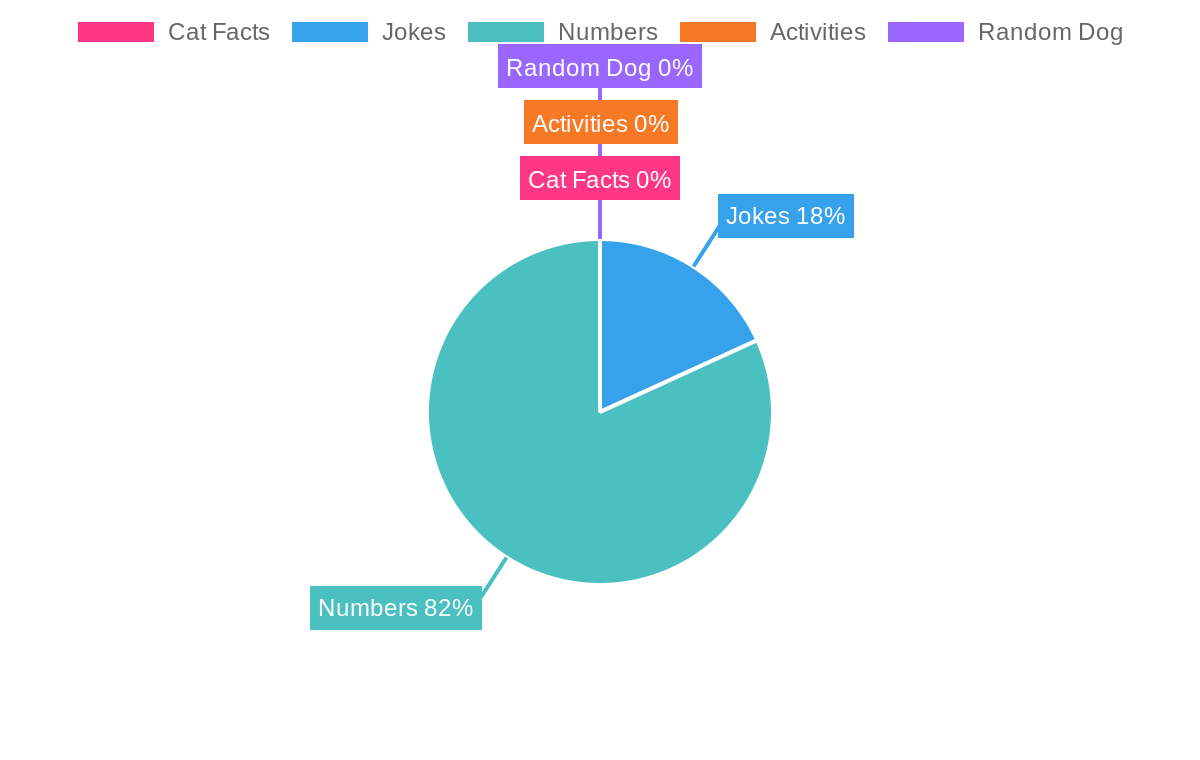
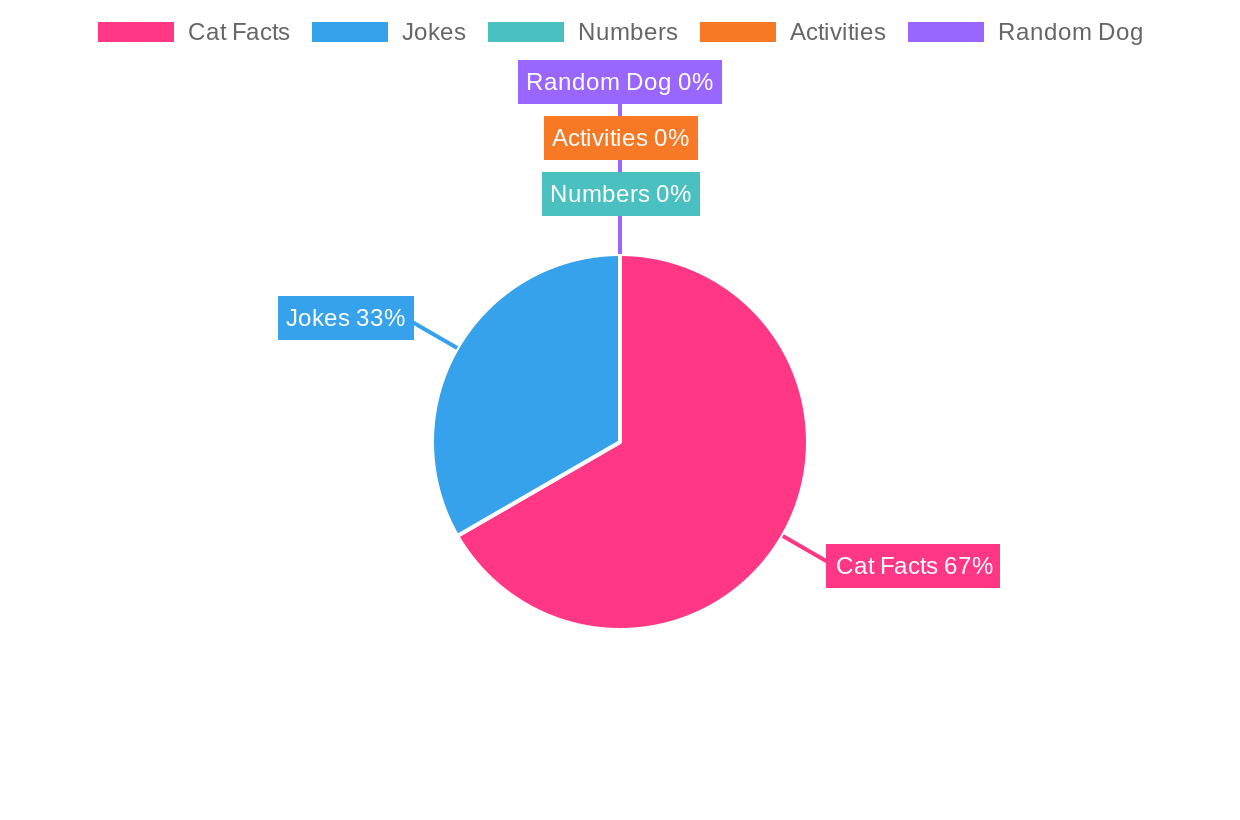
fix

Changed region(s): [[0.2158, 0.3026, 0.6475, 0.8474], [0.0617, 0.0303, 0.9558, 0.3329], [0.6475, 0.6658, 0.8325, 0.7263]]

diff --git a/src/main/java/org/example/InteractionChart.java b/src/main/java/org/example/InteractionChart.java
@@ -26,7 +26,7 @@ public class InteractionChart implements  Runnable{
     }
 
     public void run(){
-        while(true){
+        while(true) {
             try {
                 Thread.sleep(2000);
             } catch (InterruptedException e) {
@@ -34,44 +34,48 @@ public class InteractionChart implements  Runnable{
             }
             //System.out.println(this.chart.getConfig());
             try {
-                this.chart.setConfig(
-                        """
-                        {
-                        "type": "outlabeledPie",
-                        "data": {
-                    "labels": ["Cat Facts", "Jokes", "Numbers", "Activities", "Random Dog"],
-                    "datasets": [{
-                    "backgroundColor": ["#FF3784", "#36A2EB", "#4BC0C0", "#F77825", "#9966FF"],
-                    """
-                                +
-                                """
-                                "data": [
-                                """
-                                + this.interactionMap.get(Constants.API_CAT_FACT)+", "+this.interactionMap.get(Constants.API_JOKES)+", "+ this.interactionMap.get(Constants.API_NUMBERS)+", "+ this.interactionMap.get(Constants.API_ACTIVITIES)+", "+ this.interactionMap.get(Constants.API_RANDOM_DOG)+ "]" +
-                                """
-                                
-                                }]
-                            },
-                            "options": {
-                                "plugins": {
-                                    "legend": true,
-                                            "outlabels": {
-                                        "text": "%l %p",
-                                                "color": "white",
-                                                "stretch": 30,
-                                                "font": {
-                                            "resizable": true,
-                                                    "minSize": 12,
-                                                    "maxSize": 18
-                                        }
-                                    }
-                                }
-                            }
-                }""");
-                this.chart.toFile("res/chart.png");
+                if (this.interactionMap.get(Constants.API_CAT_FACT) > 0 || this.interactionMap.get(Constants.API_JOKES) > 0 || this.interactionMap.get(Constants.API_NUMBERS) > 0 || this.interactionMap.get(Constants.API_ACTIVITIES) > 0 || this.interactionMap.get(Constants.API_RANDOM_DOG) > 0) {
+                    this.chart.setConfig(
+                            """
+                                        {
+                                        "type": "outlabeledPie",
+                                        "data": {
+                                    "labels": ["Cat Facts", "Jokes", "Numbers", "Activities", "Random Dog"],
+                                    "datasets": [{
+                                    "backgroundColor": ["#FF3784", "#36A2EB", "#4BC0C0", "#F77825", "#9966FF"],
+                                    """
+                                    +
+                                    """
+                                            "data": [
+                                            """
+                                    + this.interactionMap.get(Constants.API_CAT_FACT) + ", " + this.interactionMap.get(Constants.API_JOKES) + ", " + this.interactionMap.get(Constants.API_NUMBERS) + ", " + this.interactionMap.get(Constants.API_ACTIVITIES) + ", " + this.interactionMap.get(Constants.API_RANDOM_DOG) + "]" +
+                                    """
+                                                            
+                                                            }]
+                                                        },
+                                                        "options": {
+                                                            "plugins": {
+                                                                "legend": true,
+                                                                        "outlabels": {
+                                                                    "text": "%l %p",
+                                                                            "color": "white",
+                                                                            "stretch": 30,
+                                                                            "font": {
+                                                                        "resizable": true,
+                                                                                "minSize": 12,
+                                                                                "maxSize": 18
+                                                                    }
+                                                                }
+                                                            }
+                                                        }
+                                            }""");
+
+                    this.chart.toFile("res/chart.png");
+                }
             } catch (IOException e) {
                 throw new RuntimeException(e);
             }
+
 
         }
 

diff --git a/src/main/java/org/example/Panel.java b/src/main/java/org/example/Panel.java
@@ -172,7 +172,7 @@ public class Panel extends JPanel {
 
     private void totalUsersLabel(){
         JLabel totalUsers=new JLabel("Total Users Used The Bot: ");
-        totalUsers.setBounds(this.totalUsersNumber.getX()-320,this.totalUsersNumber.getY(),this.totalUsersNumber.getWidth()+Constants.SPACING,this.totalUsersNumber.getHeight());
+        totalUsers.setBounds(this.totalUsersNumber.getX()-260,this.totalUsersNumber.getY(),this.totalUsersNumber.getWidth()+Constants.SPACING,this.totalUsersNumber.getHeight());
         totalUsers.setFont(this.font.deriveFont(Constants.FONT_SIZE));
         totalUsers.setOpaque(false);
         this.add(totalUsers);
@@ -190,7 +190,7 @@ public class Panel extends JPanel {
     }
     private void mostActiveUserLabel(){
         JLabel mostActiveUser=new JLabel("Most Active User: ");
-        mostActiveUser.setBounds(this.totalUsersNumber.getX()-320,this.totalUsersNumber.getY()+Constants.Y_LABEL_SPACING,this.totalUsersNumber.getWidth(),this.totalUsersNumber.getHeight());
+        mostActiveUser.setBounds(this.totalUsersNumber.getX()-260,this.totalUsersNumber.getY()+Constants.Y_LABEL_SPACING,this.totalUsersNumber.getWidth(),this.totalUsersNumber.getHeight());
         mostActiveUser.setFont(this.font.deriveFont(Constants.FONT_SIZE));
         mostActiveUser.setOpaque(false);
         this.add(mostActiveUser);
@@ -207,7 +207,7 @@ public class Panel extends JPanel {
     }
     private void mostPopularActivityLabel(){
         JLabel mostPopularActivity=new JLabel("Most Popular API: ");
-        mostPopularActivity.setBounds(this.mostPopularActivityName.getX()-320,this.mostPopularActivityName.getY(),this.mostPopularActivityName.getWidth(),this.mostPopularActivityName.getHeight());
+        mostPopularActivity.setBounds(this.mostPopularActivityName.getX()-260,this.mostPopularActivityName.getY(),this.mostPopularActivityName.getWidth(),this.mostPopularActivityName.getHeight());
         mostPopularActivity.setFont(this.font.deriveFont(Constants.FONT_SIZE));
         mostPopularActivity.setOpaque(false);
 

diff --git a/src/main/java/org/example/Constants.java b/src/main/java/org/example/Constants.java
@@ -29,7 +29,7 @@ public class Constants {
 
     public static final int SPACING=50;
 
-    public static final int FIRST_NUMBER_X=360;
+    public static final int FIRST_NUMBER_X=300;
     public static final int FIRST_NUMBER_Y=220;
     public static final int FIRST_NUMBER_WIDTH=200;
     public static final int FIRST_NUMBER_HEIGHT=100;
@@ -37,7 +37,7 @@ public class Constants {
     public static final float FONT_SIZE= 17f;
 
     public static final int CHECKBOX_X= STATISTICS_X;
-    public static final int CHECKBOX_Y=600;
+    public static final int CHECKBOX_Y=620;
 
     public static final int API_CHOOSER_LABEL_X = STATISTICS_X;
     public static final int API_CHOOSER_LABEL_Y = 520;

diff --git a/src/main/java/org/example/Window.java b/src/main/java/org/example/Window.java
@@ -12,6 +12,7 @@ public class Window extends JFrame {
     private Thread rePainter;
     private File chart;
     public Window() {
+
         this.setSize(Constants.WINDOW_WIDTH, Constants.WINDOW_HEIGHT);
         this.setResizable(false);
         this.setLayout(null);
